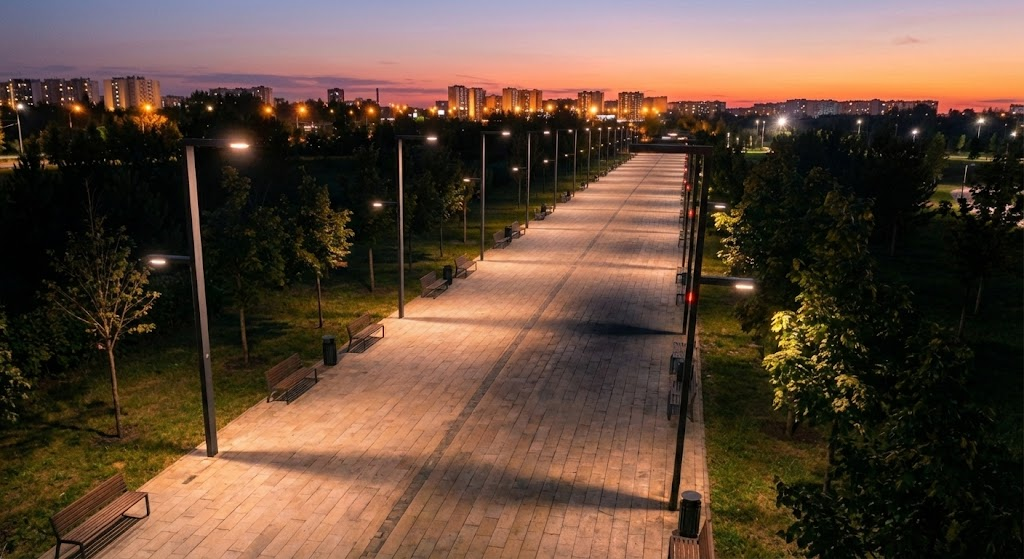
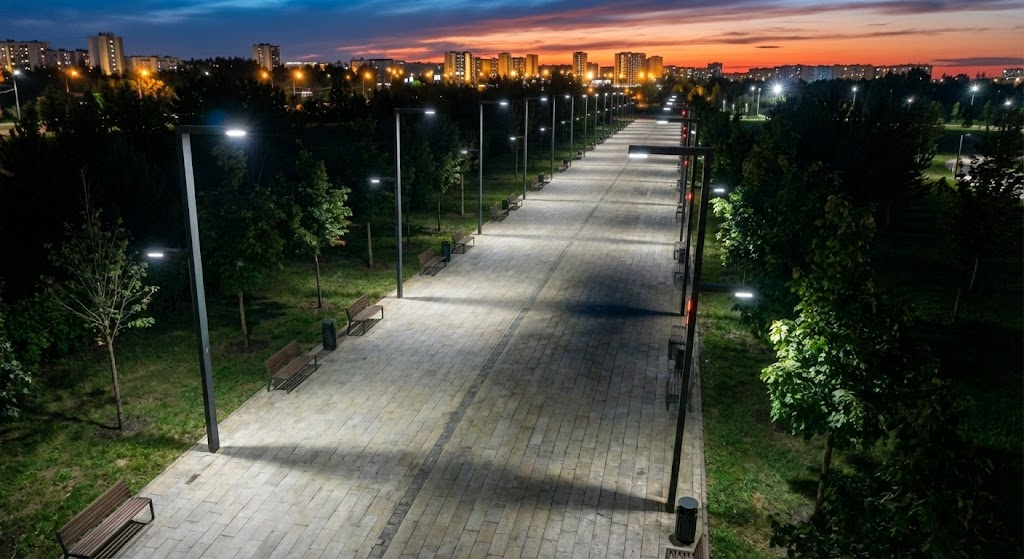
가로등 이미지, 효과 추가

diff --git a/src/StreetLightIntro.jsx b/src/StreetLightIntro.jsx
@@ -92,12 +92,12 @@ const StreetLightIntro = () => {
                 </Link>
               </li>
               <li className="border-b border-slate-200">
-                <Link to="/lora-mesh" className="flex items-center justify-between px-4 py-4 text-[14px] lg:text-[15px] tracking-tight text-slate-600 hover:text-[#1eb4c8] hover:bg-slate-50 transition-all whitespace-nowrap">
+                <Link to="/lora-mesh-solution" className="flex items-center justify-between px-4 py-4 text-[14px] lg:text-[15px] tracking-tight text-slate-600 hover:text-[#1eb4c8] hover:bg-slate-50 transition-all whitespace-nowrap">
                   LoRa-Mesh 솔루션
                 </Link>
               </li>
               <li className="border-b border-slate-200 last:border-0">
-                <Link to="/nb-iot" className="flex items-center justify-between px-4 py-4 text-[14px] lg:text-[15px] tracking-tight text-slate-600 hover:text-[#1eb4c8] hover:bg-slate-50 transition-all whitespace-nowrap">
+                <Link to="/nb-iot-solution" className="flex items-center justify-between px-4 py-4 text-[14px] lg:text-[15px] tracking-tight text-slate-600 hover:text-[#1eb4c8] hover:bg-slate-50 transition-all whitespace-nowrap">
                   NB-IoT 솔루션
                 </Link>
               </li>
@@ -156,7 +156,7 @@ const StreetLightIntro = () => {
                   />
                 </div>
 
-                {/* [Layer 4: 고장 시뮬레이션 (100% 밝기 + 우측 하단 2개 소등)] */}
+                {/* [Layer 4: 고장 시뮬레이션 (100% 밝기 + 고장 구역 소등)] */}
                 <div 
                   className={`absolute inset-0 w-full h-full transition-opacity duration-300 ease-out z-20
                     ${activeMode === "failure" ? 'opacity-100' : 'opacity-0 pointer-events-none'}`}
@@ -167,13 +167,13 @@ const StreetLightIntro = () => {
                     alt="고장 발생 시뮬레이션" 
                   />
                   
-                  {/* 고장 경고 UI (우측 하단 고장 위치 근처에 배치) */}
+                  {/* 고장 경고 UI (우측 하단에 배치 - 새 이미지 상황에 맞춤) */}
                   <div className="absolute bottom-[10%] right-[5%] flex items-center justify-center pointer-events-none animate-pulse z-30">
                     <div className="bg-red-900/90 backdrop-blur-sm px-5 py-3 rounded-xl border border-red-500 shadow-[0_0_30px_rgba(239,68,68,0.6)] flex items-center gap-3">
                       <span className="text-3xl">🚨</span>
                       <div className="text-left">
                         <p className="text-red-200 text-xs font-bold uppercase tracking-widest mb-0.5">Failure Alert</p>
-                        <p className="text-white text-sm font-bold leading-tight">우측 하단<br/>가로등 2기 고장!</p>
+                        <p className="text-white text-sm font-bold leading-tight">구역 A<br/>가로등 #4, #5, #6 꺼짐</p>
                       </div>
                     </div>
                   </div>
